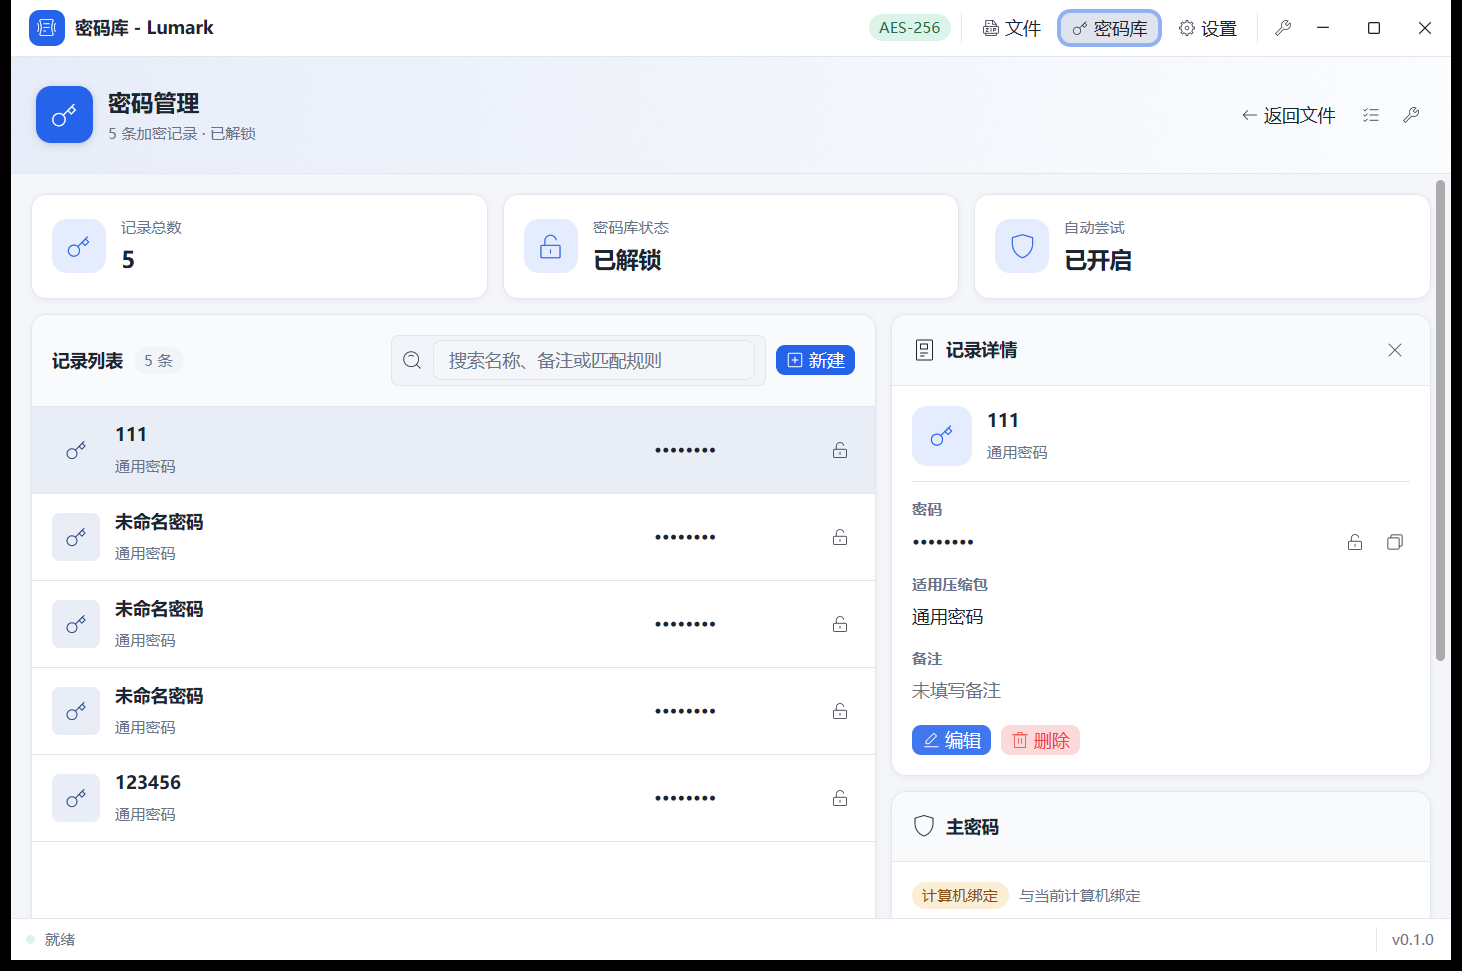
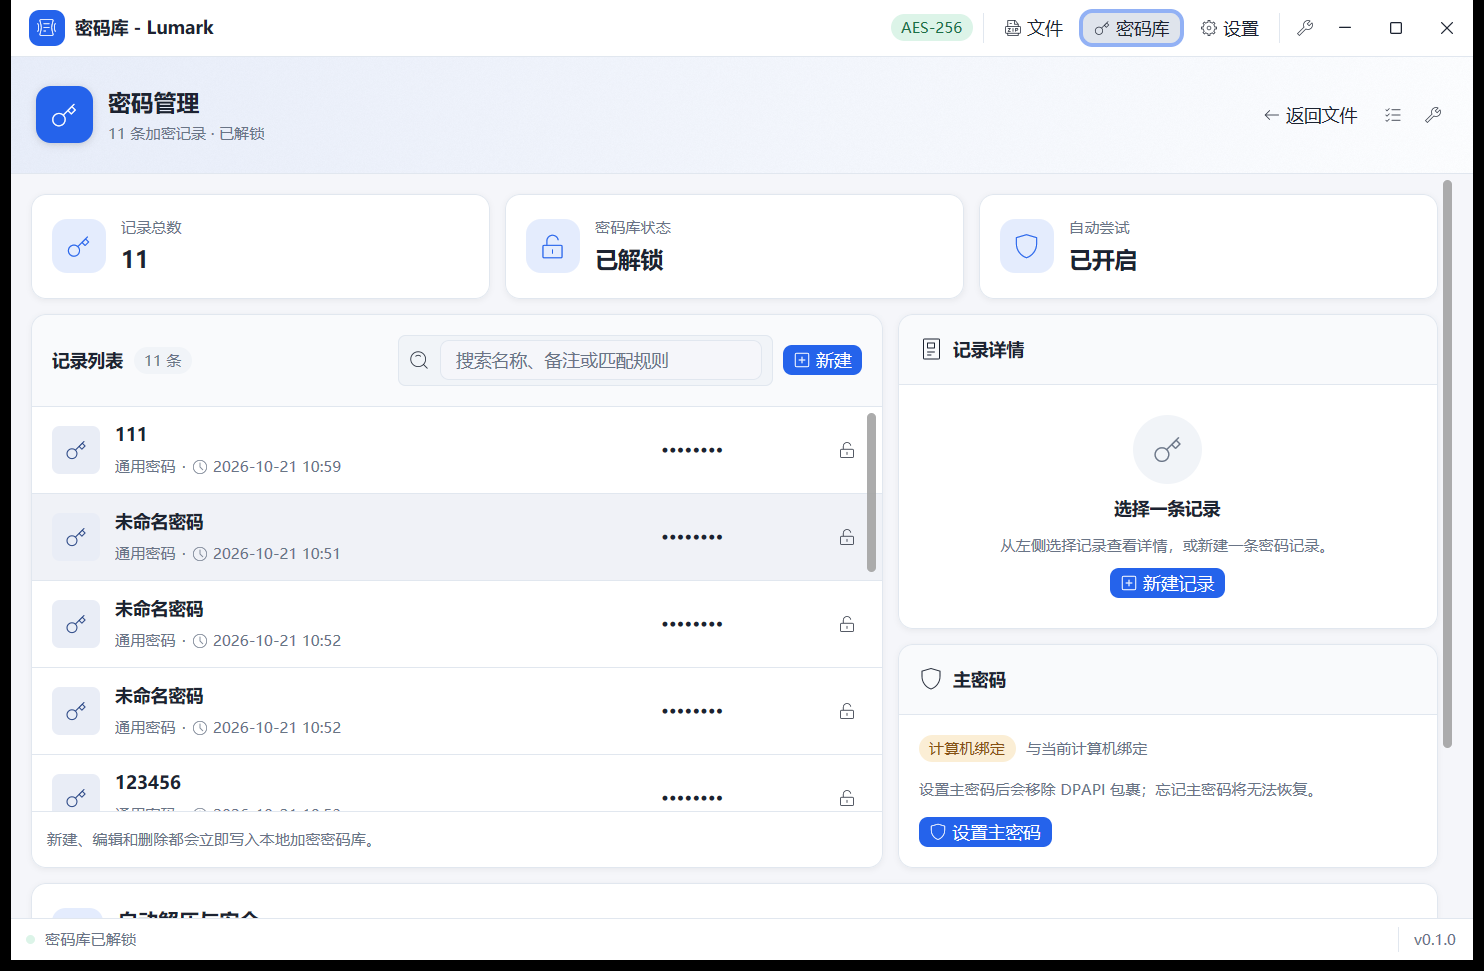
fix: 修复页面滚动并显示密码时间

diff --git a/crates/lumark-ui/src/app/view/pages.rs b/crates/lumark-ui/src/app/view/pages.rs
@@ -41,9 +41,7 @@ impl LumarkApp {
             .w_full()
             .h_full()
             .min_h_0()
-            .overflow_y_scroll()
-            .track_scroll(&self.password_page_scroll)
-            .vertical_scrollbar(&self.password_page_scroll)
+            .overflow_y_scrollbar()
             .p_4()
             .gap_3()
             .child(
@@ -84,7 +82,7 @@ impl LumarkApp {
                         card(cx)
                             .flex_1()
                             .min_w(px(420.))
-                            .min_h(px(430.))
+                            .min_h_0()
                             .child(
                                 h_flex()
                                     .p_4()
@@ -152,7 +150,7 @@ impl LumarkApp {
                                 this.child(
                                     v_flex()
                                         .flex_1()
-                                        .min_h(px(310.))
+                                        .min_h_0()
                                         .items_center()
                                         .justify_center()
                                         .gap_3()
@@ -207,7 +205,8 @@ impl LumarkApp {
                                     v_flex()
                                         .id("password-list")
                                         .flex_1()
-                                        .min_h(px(310.))
+                                        .min_h_0()
+                                        .overflow_y_scrollbar()
                                         .when(entries.is_empty(), |this| {
                                             this.child(
                                                 v_flex()
@@ -240,6 +239,8 @@ impl LumarkApp {
                                                 .archive_pattern
                                                 .clone()
                                                 .unwrap_or_else(|| "通用密码".to_string());
+                                            let updated_label =
+                                                format_record_time(entry.updated_at);
                                             let selected =
                                                 self.selected_password == Some(id);
                                             let revealed =
@@ -314,12 +315,17 @@ impl LumarkApp {
                                                                 ),
                                                         )
                                                         .child(
-                                                            div()
+                                                            h_flex()
+                                                                .gap_1()
+                                                                .items_center()
                                                                 .text_xs()
                                                                 .text_color(
                                                                     cx.theme().muted_foreground,
                                                                 )
-                                                                .child(pattern_label),
+                                                                .child(pattern_label)
+                                                                .child(div().child("·"))
+                                                                .child(AppIcon::Time.element(11.))
+                                                                .child(updated_label),
                                                         ),
                                                 )
                                                 .child(
@@ -941,9 +947,7 @@ impl LumarkApp {
             .w_full()
             .h_full()
             .min_h_0()
-            .overflow_y_scroll()
-            .track_scroll(&self.settings_page_scroll)
-            .vertical_scrollbar(&self.settings_page_scroll)
+            .overflow_y_scrollbar()
             .p_4()
             .gap_3()
             .child(
@@ -1373,9 +1377,7 @@ impl LumarkApp {
                             .id("task-center-list")
                             .flex_1()
                             .min_h_0()
-                            .overflow_y_scroll()
-                            .track_scroll(&self.task_list_scroll)
-                            .vertical_scrollbar(&self.task_list_scroll)
+                            .overflow_y_scrollbar()
                             .when(self.task_records.is_empty(), |this| {
                                 this.child(
                                     v_flex()

diff --git a/crates/lumark-ui/src/app.rs b/crates/lumark-ui/src/app.rs
@@ -212,9 +212,6 @@ pub struct LumarkApp {
     tree_expanded: HashSet<PathBuf>,
     tree_children: HashMap<PathBuf, Vec<PathBuf>>,
     file_list_scroll: gpui_kit::base::VirtualListScrollHandle,
-    password_page_scroll: gpui_kit::ScrollHandle,
-    settings_page_scroll: gpui_kit::ScrollHandle,
-    task_list_scroll: gpui_kit::ScrollHandle,
     theme_color_picker: Option<gpui_kit::Entity<ColorPickerState>>,
     theme_color_subscription: Option<Subscription>,
 }
@@ -437,9 +434,6 @@ impl LumarkApp {
             tree_expanded: HashSet::new(),
             tree_children: HashMap::new(),
             file_list_scroll: gpui_kit::base::VirtualListScrollHandle::new(),
-            password_page_scroll: gpui_kit::ScrollHandle::default(),
-            settings_page_scroll: gpui_kit::ScrollHandle::default(),
-            task_list_scroll: gpui_kit::ScrollHandle::default(),
             theme_color_picker: None,
             theme_color_subscription: None,
         };

diff --git a/crates/lumark-ui/src/app/view/chrome.rs b/crates/lumark-ui/src/app/view/chrome.rs
@@ -1006,6 +1006,19 @@ impl Render for LumarkApp {
             Screen::Settings => self.render_settings(cx).into_any_element(),
             Screen::Tasks => self.render_task_center(cx).into_any_element(),
         };
+        // 设置和密码库的整页滚动条向窗口内侧留出空间，避免与 Windows
+        // 窗口缩放边框重叠而无法拖动。
+        let content = if matches!(self.screen, Screen::Passwords | Screen::Settings) {
+            v_flex()
+                .w_full()
+                .h_full()
+                .min_h_0()
+                .pr_3()
+                .child(content)
+                .into_any_element()
+        } else {
+            content
+        };
         let browser = self.screen == Screen::Browser;
 
         v_flex()

diff --git a/crates/lumark-ui/src/app/util.rs b/crates/lumark-ui/src/app/util.rs
@@ -328,6 +328,14 @@ pub(crate) fn format_duration(seconds: u64) -> String {
     )
 }
 
+/// 把密码记录时间转换为本地时区的紧凑文本。
+pub(crate) fn format_record_time(value: chrono::DateTime<chrono::Utc>) -> String {
+    value
+        .with_timezone(&chrono::Local)
+        .format("%Y-%m-%d %H:%M")
+        .to_string()
+}
+
 /// 把点击、Ctrl 切换和 Shift 连选语义应用到文件行。
 pub(crate) fn app_select_row(
     app: &mut LumarkApp,

diff --git a/README.md b/README.md
@@ -17,7 +17,7 @@ Lumark 是一个使用 Rust + [gpui-kit](https://github.com/longbridge/gpui-kit)
 - ISO/UDF、CAB、ARJ、ACE、ARC/PAK、CPIO、WIM、ASAR、ZPAQ、LZH/LHA、DEB、ISZ、IMG/BIN、UU/XXE、LZ/LZMA 等 30+ 只读格式适配。
 - ZIP/7Z 归档内浏览、选择性解压、删除/重命名/添加文件，同名添加按替换处理，临时重建后原子替换；可选 `.lumark.bak`。
 - `.001` 原始分卷创建、列表和解压；失败时保留旧卷并清理半成品。
-- 密码管理：添加/编辑/删除即时写入、名称/备注/匹配规则、独立编辑窗口、掩码与 10 秒显示、Windows DPAPI（计算机绑定）、可选主密码、加密导入导出。
+- 密码管理：添加/编辑/删除即时写入、名称/备注/匹配规则、记录时间、独立编辑窗口、掩码与 10 秒显示、Windows DPAPI（计算机绑定）、可选主密码、加密导入导出。
 - 解压加密 ZIP/7Z/RAR 时从密码库生成候选密码并在后台逐个验证；主密码锁定时提供解锁入口。
 - 后台任务：归档加载、压缩、解压、测试、编辑、记录密码验证、进度、暂停/继续、取消、状态栏和独立进度窗口。
 - 压缩后可测试归档并在成功时删除源文件。
